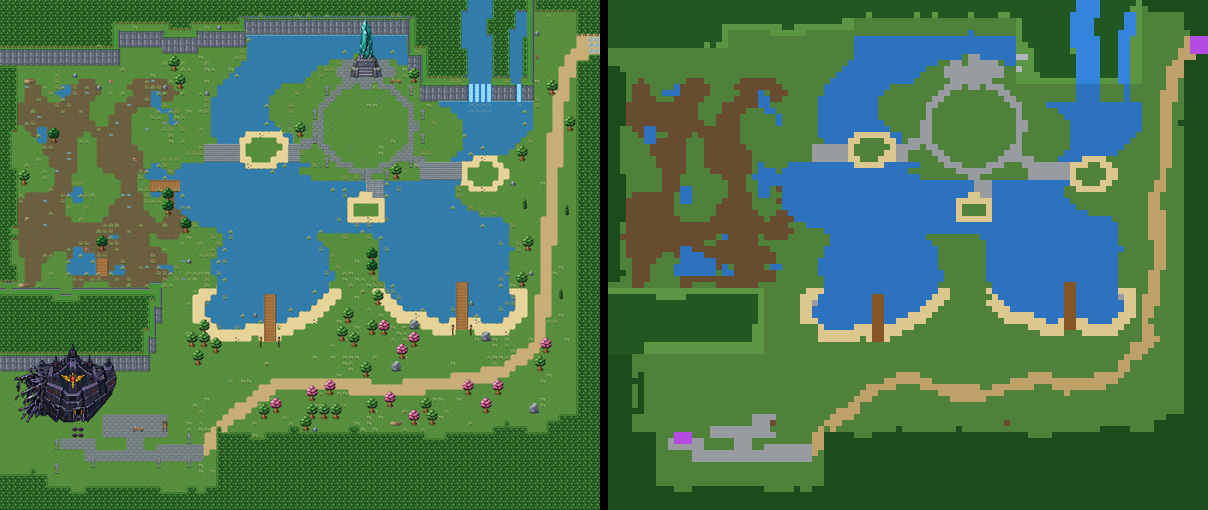
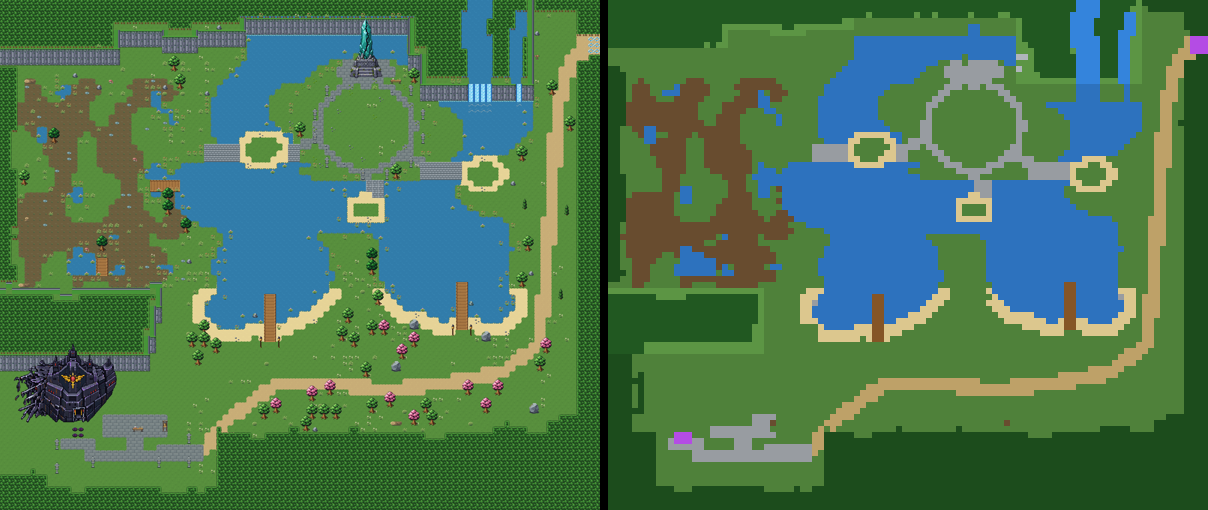
A02 Regeln: Destiny Lake ohne zusaetzliches Biegen (Wege waren schon geschwungen), nur 45-Grad-Kanten
Claude-Session: https://claude.ai/code/session_01SaoYHKhnro4LFcPJqjaPsq

diff --git a/tools/karte27_layout.py b/tools/karte27_layout.py
@@ -101,7 +101,7 @@ def main():
     for (tx, ty, b, hh) in TELEPORTER:
         k[ty:ty + hh, tx:tx + b] = 'T'
     import regeln_a02                                                 # Regel 6: Wege nie nur gerade
-    k = regeln_a02.wege_schwingen(k, seed=27)
+    # Destiny Lake: Wege waren schon natuerlich geschwungen -> nicht zusaetzlich biegen (nur 45-Grad-Kanten)
     lay = {'groesse': [C, R], 'klassen': [''.join(z) for z in k], 'hoehe': [''.join(str(c) for c in z) for z in h],
            'schiff': SCHIFF, 'plateaus': PLATEAUS, 'front_reihen': FRONT_REIHEN,
            'teleporter': [{'x': tx, 'y': ty, 'b': b, 'h': hh} for (tx, ty, b, hh) in TELEPORTER]}
